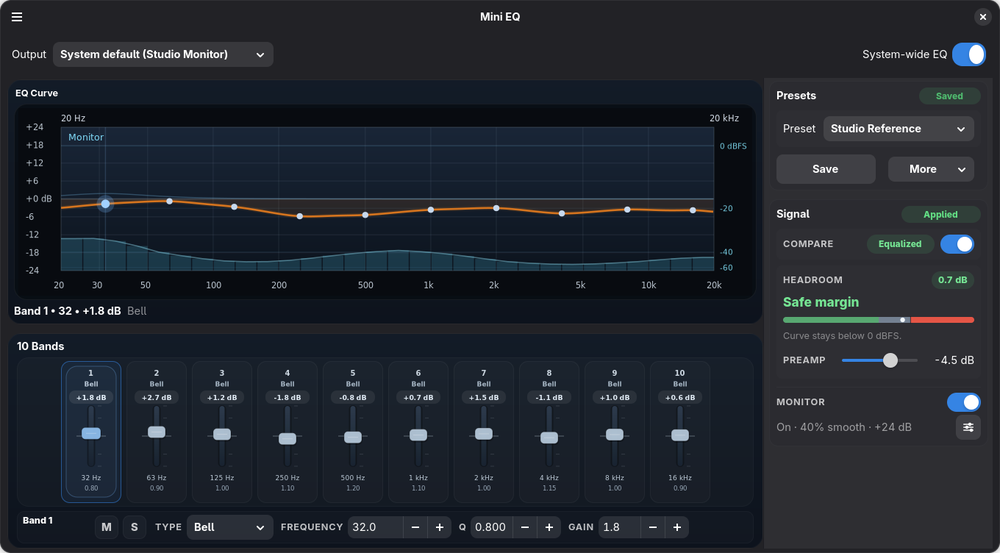
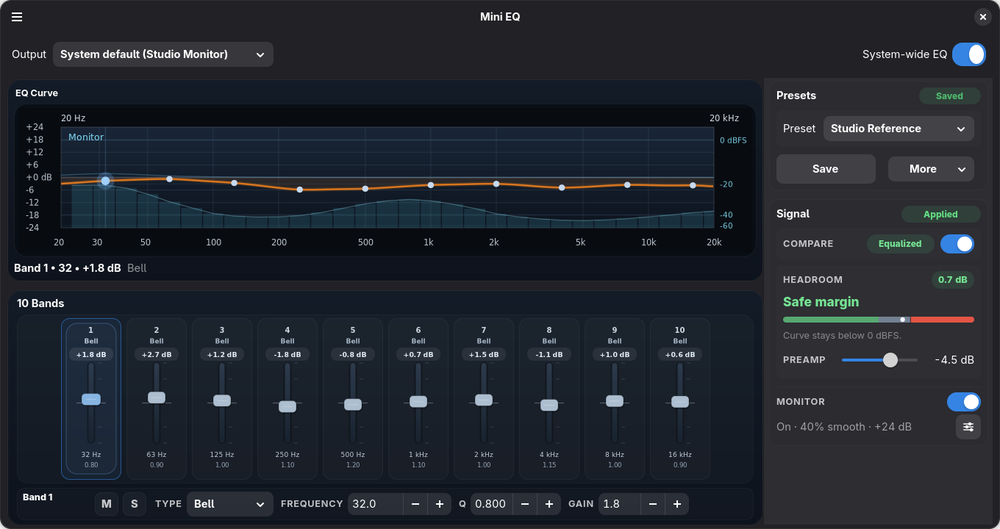
Prepare 0.1.6 release

diff --git a/CHANGELOG.md b/CHANGELOG.md
@@ -1,5 +1,12 @@
 # Changelog
 
+## 0.1.6 - 2026-04-30
+
+- Improve compact window sizing so the minimum layout uses available vertical space.
+- Add release preflight guidance for deciding when a GNOME Shell extension upload is needed.
+- Move owner-specific release runbook details out of public documentation.
+- Refresh the public screenshot and social preview assets.
+
 ## 0.1.5 - 2026-04-30
 
 - Improve analyzer rendering responsiveness by moving spectrum drawing into a dedicated snapshot widget.
